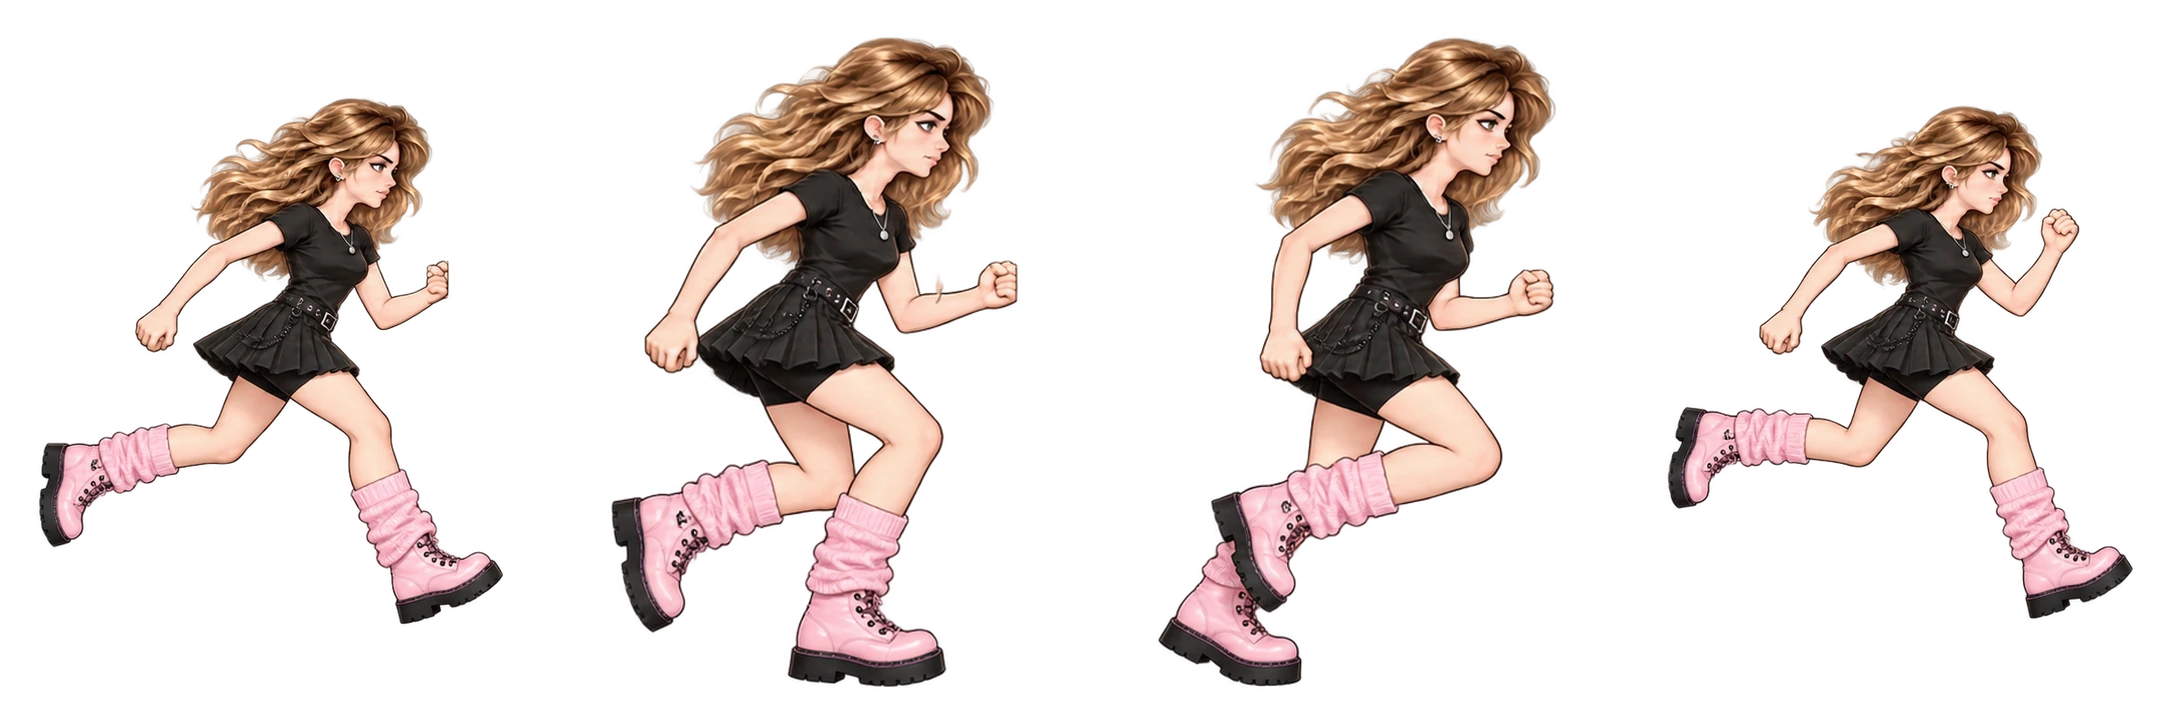
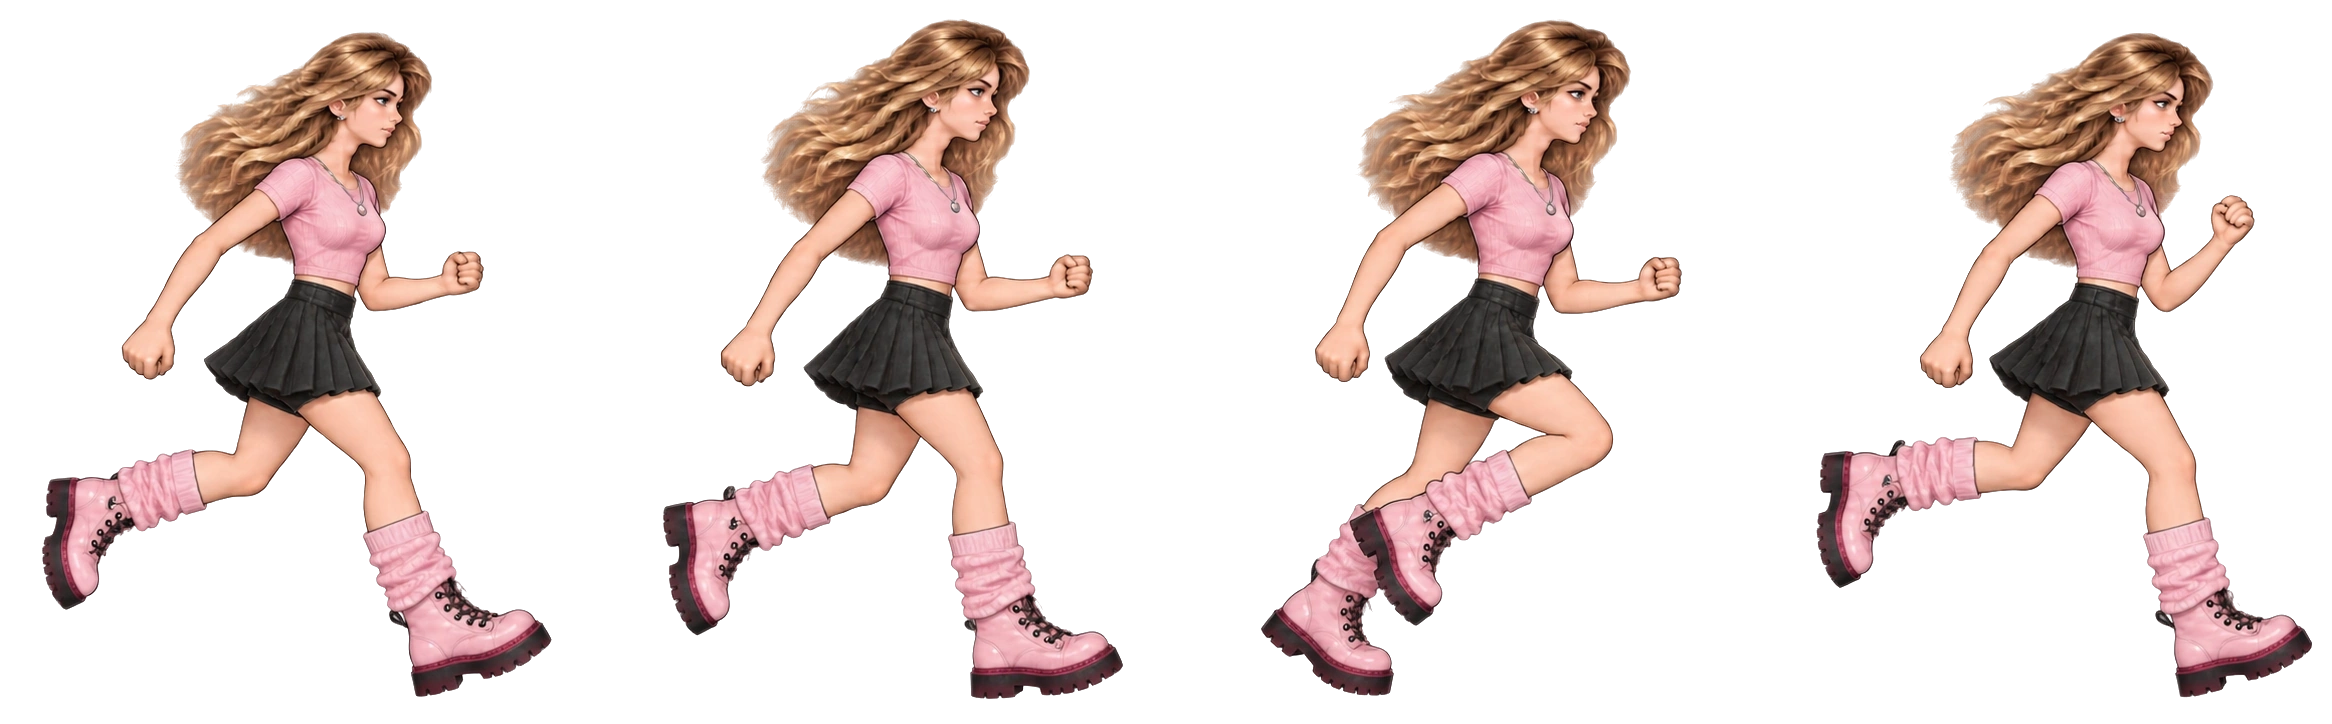
Refine C human proportions and shoe colors

diff --git a/game.js b/game.js
@@ -36,7 +36,7 @@ const PEOPLE = {
 };
 
 const order = ["C", "A", "S", "E"];
-const ART_REVISION = "case-20261010-35";
+const ART_REVISION = "case-20261010-36";
 for (const person of Object.values(PEOPLE)) {
   for (const key of Object.keys(person.art)) person.art[key] += `?v=${ART_REVISION}`;
 }

diff --git a/index.html b/index.html
@@ -84,7 +84,7 @@
     </section>
   </main>
 
-  <script src="game.js?v=case-20261010-35"></script>
+  <script src="game.js?v=case-20261010-36"></script>
 </body>
 </html>
 
